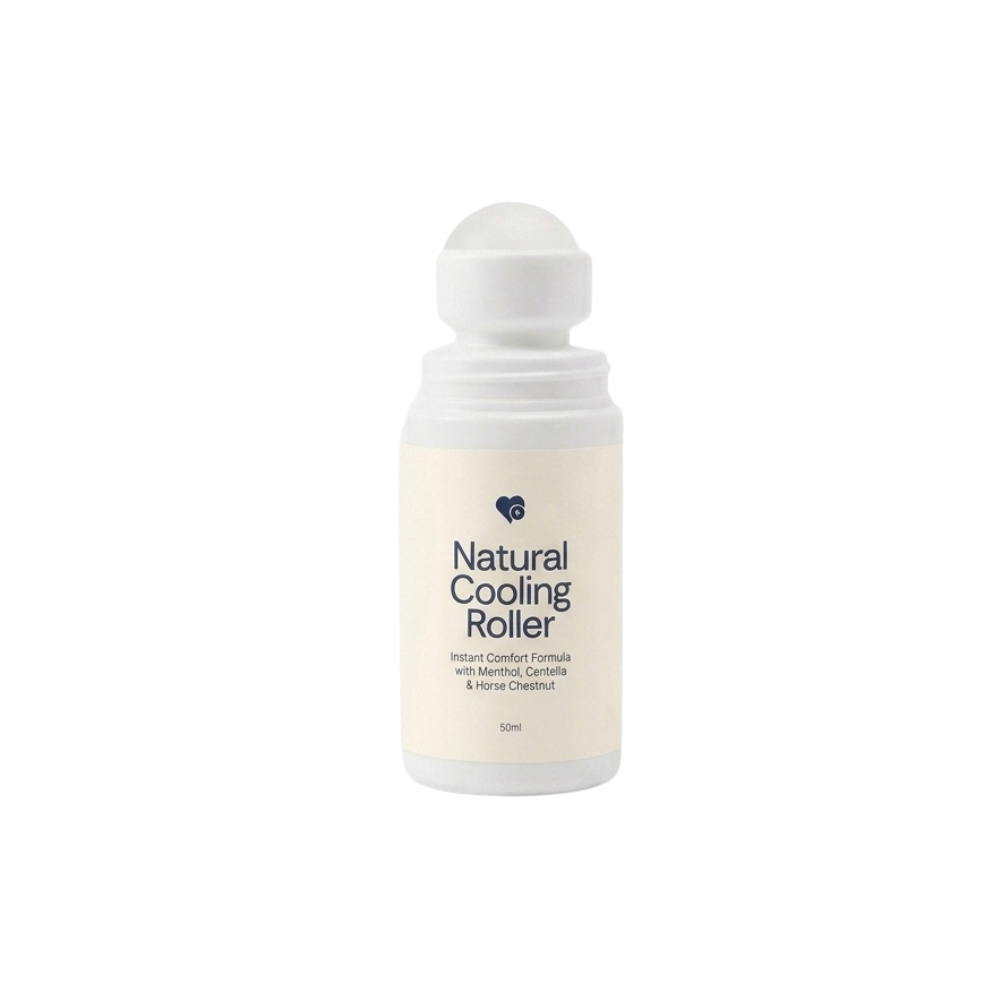
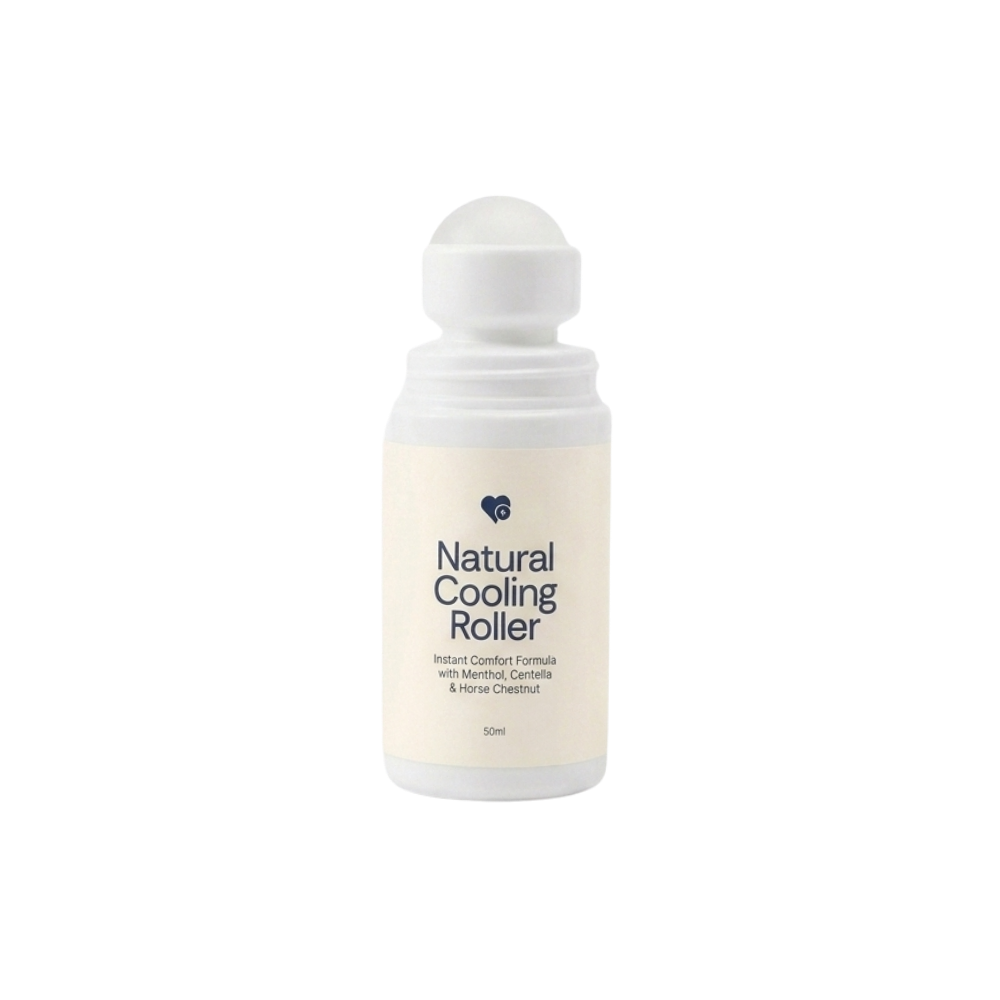
Update hero pack layout

diff --git a/index.html b/index.html
@@ -13732,7 +13732,7 @@ body.dom-pending * {
     text-decoration: line-through !important;
   }
 }
-</style></head><body class=" dom-pending"><div id="nv-page-top"></div><div id="nv-spring-banner" style="margin: 0px; padding: 0px; line-height: 0;"><a href="#nv-best-offer" style="display:block;" id="cc-id-FJq2HurPKM6d" data-id="fkt-link-6c2-c91-b99" title="" target="_self" action="choose" align="center" animate="" speed="" delay="" loop="none" variantvalue="" data-secondsdelay="" data-minutesdelay="" replaceproductid="" billnow="false" offer="" upsell="" quantity="" price=""><img src="https://assets.imagehub.io/8c9e1110-8218-11ef-a556-ffaacc6dbefa/1774953663986_cartoon_version_without_text_desktop_version.webp" alt="Spring Sale &mdash; Up to 67% Off" class="fk-disable-lazy nv-banner-desktop" style="width:100%;height:auto;display:block;cursor:pointer;" id="cc-id-nipYEy9bEBt4" title="" href="" onclick="" target="_self" align="center" width="" height=""><img src="https://assets.imagehub.io/8c9e1110-8218-11ef-a556-ffaacc6dbefa/1774953792222_cartoon_version_without_text_mobile_version.webp" alt="Spring Sale &mdash; Up to 67% Off" class="fk-disable-lazy nv-banner-mobile" style="width:100%;height:auto;display:none;cursor:pointer;" id="cc-id-eY0hH0ra8tv8" title="" href="" onclick="" target="_self" align="center" width="" height=""></a></div><div id="nv-sticky-header"><div id="nv-sticky-inner"><img class="fk-disable-lazy nv-hdr-logo" src="https://assets.imagehub.io/dc45bbf0-81eb-11ef-a2da-133f014b1a7b/1769431998534_Product_name.webp" alt="Nurovita" id="cc-id-SoJrBSZytZyg" title="" href="" onclick="" target="_self" align="center" width="" height=""><a class="nv-hdr-cta" href="#nv-page-top" id="cc-id-q9AuIweQvpqt" data-id="fkt-link-b00-496-ae3" title="CLAIM MY DISCOUNT" target="_self" action="choose" align="center" animate="" speed="" delay="" loop="none" variantvalue="" data-secondsdelay="" data-minutesdelay="" replaceproductid="" billnow="false" offer="" upsell="" quantity="" price=""><span class="rte-styled-text" id="cc-id-onOz8jlom1jY">CLAIM MY DISCOUNT&nbsp;<i class="fas fa-arrow-right" id="cc-id-9XTWbgwoKCq4"></i></span></a></div></div><div id="nv-hero"><div class="nv-hero-grid" id="cc-id-pe71Sw27BPvp"><!-- LEFT: Product Image --><div class="nv-hero-img" id="cc-id-jeRx1TpOBarP"><img class="fk-disable-lazy" src="https://assets.imagehub.io/dc45bbf0-81eb-11ef-a2da-133f014b1a7b/1773316412222_hf_20260225_121430_6d45e93d_48b3_4c3f_a918_484e97ad0858.webp" alt="Natural Cooling Roller" id="cc-id-27wPdSlq6v3J" title="" href="" onclick="" target="_self" align="center" width="" height=""><img src="https://assets.imagehub.io/8c9e1110-8218-11ef-a556-ffaacc6dbefa/1775825101659_Customer_Review.webp" alt="Customer review" class="fk-disable-lazy nv-hero-fb-comment"></div><!-- RIGHT: Content --><div class="nv-hero-content" id="cc-id-WAibwADXKQ5L"><div class="nv-sale-proof"><span class="nv-trust-stars" aria-label="5 stars"><span>&#9733;</span><span>&#9733;</span><span>&#9733;</span><span>&#9733;</span><span>&#9733;</span></span><span>Rated 4.8 / 5.0 | Excellent</span></div><h1 class="nv-sale-title">Natural Cooling Roller</h1><p class="nv-sale-subtitle">Strengthens your vessel walls to ease heaviness, reduce swelling, and calm inflammation at the source.</p><div class="nv-amla-benefits" aria-label="Nurovita key benefits"><div class="nv-amla-benefit"><span class="nv-amla-check" aria-hidden="true">&#10003;</span><span><b>Vessel Walls</b> – Your legs holding fluid back again</span></div><div class="nv-amla-benefit"><span class="nv-amla-check" aria-hidden="true">&#10003;</span><span><b>Collagen</b> – Supports healthy vessel strength naturally</span></div><div class="nv-amla-benefit"><span class="nv-amla-check" aria-hidden="true">&#10003;</span><span><b>Swelling</b> – Supports lighter ankles and calves</span></div><div class="nv-amla-benefit"><span class="nv-amla-check" aria-hidden="true">&#10003;</span><span><b>Circulation</b> – Supports healthy fluid flow in your legs</span></div></div><div class="nv-pack-grid nv-pack-grid-reference" aria-label="Choose your Nurovita pack"><a class="nv-pack-card nv-pack-side" href="#nv-best-offer" data-pack="1" aria-pressed="false"><span class="nv-pack-title">Buy One</span><img class="nv-pack-img fk-disable-lazy" src="1x.png" alt="1 Nurovita Cooling Roller"><span class="nv-pack-save">Save $10.00</span><span class="nv-pack-price">$29.99</span><span class="nv-pack-compare">$39.99</span></a><a class="nv-pack-card nv-pack-featured is-selected" href="#nv-best-offer" data-pack="3" aria-pressed="true"><span class="nv-pack-badge">Most Popular</span><span class="nv-pack-title">Buy 2<br>Get 1 <strong>FREE</strong></span><img class="nv-pack-img fk-disable-lazy" src="3x.png" alt="3 Nurovita Cooling Rollers"><span class="nv-pack-save">Save $20.00</span><span class="nv-pack-price">$59.99</span><span class="nv-pack-compare">$79.99</span></a><a class="nv-pack-card nv-pack-side" href="#nv-best-offer" data-pack="4" aria-pressed="false"><span class="nv-pack-badge nv-pack-soft-badge">Free Shipping</span><span class="nv-pack-title">Buy 3<br>Get 2 <strong>FREE</strong></span><img class="nv-pack-img fk-disable-lazy" src="5x.png" alt="5 Nurovita Cooling Rollers"><span class="nv-pack-save">Save $30.00</span><span class="nv-pack-price">$89.99</span><span class="nv-pack-compare">$119.99</span></a></div><div class="nv-stock-line"><span class="nv-stock-dot" aria-hidden="true"></span><span>In Stock, ready to ship - arrives by June 20th</span></div><a class="nv-hero-cta nv-offer-cta" href="#">Get 67% Off Today <span class="nv-hero-cta-arrow">&#8594;</span></a><p class="nv-subscribe-note">By default, your selected package will continue to be shipped and billed automatically (every 1 or 2 months) unless you choose to skip, pause, cancel, or select the one-time purchase option below.</p><div class="nv-checkout-strip"><span class="nv-checkout-label"><img class="nv-checkout-icon fk-disable-lazy" src="https://alevia.com/cdn/shop/files/shipment-icon.svg?v=[phone redacted]" alt="" aria-hidden="true">Fast Delivery</span><span class="nv-checkout-label"><img class="nv-checkout-icon fk-disable-lazy" src="https://alevia.com/cdn/shop/files/checkout-icon.svg?v=[phone redacted]" alt="" aria-hidden="true">Secure Checkout</span><img class="nv-payment-badges fk-disable-lazy" src="https://alevia.com/cdn/shop/files/Alevia-Payment-Badges_8d92cedb-2466-4afd-a730-3f1cd34ea9a1.webp?v=[phone redacted]" alt="Accepted payment methods"></div><ul class="nv-afterpay-list" aria-label="Auto refill benefits"><li>Refilled every month</li><li>Skip, Pause, or Cancel Anytime</li></ul></div></div></div><div data-text="text" data-secondsdelay="" id="cc-id-mAUWVRDCdeMi"></div><div class="fk-row" id="cc-id-cEIQNJ2wSdor" style="display: none;"></div><div class="fk-row" id="cc-id-nV2O6v668UyQ" data-cc-tablet="false" data-cc-mobilelarge="false" data-cc-mobile="false" style="display: none;"></div><div data-secondsdelay="" id="ir69t" class="fk-row"><div align="center" data-secondsdelay="" id="i4b3x" class="fk-col col"><grammarly-extension data-grammarly-shadow-root="true" class="dnXmp" style="position: absolute; top: 0px; left: 0px; --rem: 16;" id="cc-id-E7aTwqwllfIh"></grammarly-extension><grammarly-extension data-grammarly-shadow-root="true" class="dnXmp" style="position: absolute; top: 0px; left: 0px; --rem: 16;" id="cc-id-ywdCJg4ZgxR8"></grammarly-extension><img class="fk-image-defaults fk-disable-lazy" src="https://assets.imagehub.io/dc45bbf0-81eb-11ef-a2da-133f014b1a7b/1770978453721_withoutclockphone.webp" id="cc-id-VmlKxIgUIi34" title="" href="" onclick="" target="_self" alt="" align="center" width="" height="" style="display: none;" data-cc-desktop="false"><img class="fk-image-defaults fk-disable-lazy" src="https://assets.imagehub.io/dc45bbf0-81eb-11ef-a2da-133f014b1a7b/1770978478262_withoutclockdesktop.webp" id="cc-id-KBUfBXcjY9ut" title="" href="" onclick="" target="_self" align="center" width="" height="" data-cc-tabletlarge="false" data-cc-tablet="false" data-cc-mobilelarge="false" data-cc-mobile="false" style="display: none;"><div data-box="true" data-secondsdelay="" id="i0n4k" style="display: none;"><div data-text="text" data-secondsdelay="" id="i49fr"><span class="font-FFFFFFFF cc-rte-styled rte-styled-text" id="cc-id-pc8HHBpQNpOQ">THE "LIGHTER LEGS OR MONEY BACK" 90-DAY GUARANTEE </span><br class="rte-styled-text" id="cc-id-I5vnZJKGG3yE"></div></div><div data-box="true" data-secondsdelay="" id="i3m14h" style="display: none;"><img id="fkt-image-bbb-aa3-ac3" title="" target="_self" src="https://assets.imagehub.io/dc45bbf0-81eb-11ef-a2da-133f014b1a7b/1765865791586_Product_name.webp" href="" align="center" alt="" width="" height="" onclick="" class="fk-image-defaults fk-disable-lazy disable-fk-lazy" style=""><div data-box="true" data-secondsdelay="" id="ieb4r7b" class="contained"><div data-box="true" data-secondsdelay="" id="i2udwks"><div data-text="text" data-secondsdelay="" id="iutn2x" style="font-size: 40px !important;" spellcheck="false"><div class="rte-styled-text" id="cc-id-jcRmiTefYKXK">
+</style></head><body class=" dom-pending"><div id="nv-page-top"></div><div id="nv-spring-banner" style="margin: 0px; padding: 0px; line-height: 0;"><a href="#nv-best-offer" style="display:block;" id="cc-id-FJq2HurPKM6d" data-id="fkt-link-6c2-c91-b99" title="" target="_self" action="choose" align="center" animate="" speed="" delay="" loop="none" variantvalue="" data-secondsdelay="" data-minutesdelay="" replaceproductid="" billnow="false" offer="" upsell="" quantity="" price=""><img src="https://assets.imagehub.io/8c9e1110-8218-11ef-a556-ffaacc6dbefa/1774953663986_cartoon_version_without_text_desktop_version.webp" alt="Spring Sale &mdash; Up to 67% Off" class="fk-disable-lazy nv-banner-desktop" style="width:100%;height:auto;display:block;cursor:pointer;" id="cc-id-nipYEy9bEBt4" title="" href="" onclick="" target="_self" align="center" width="" height=""><img src="https://assets.imagehub.io/8c9e1110-8218-11ef-a556-ffaacc6dbefa/1774953792222_cartoon_version_without_text_mobile_version.webp" alt="Spring Sale &mdash; Up to 67% Off" class="fk-disable-lazy nv-banner-mobile" style="width:100%;height:auto;display:none;cursor:pointer;" id="cc-id-eY0hH0ra8tv8" title="" href="" onclick="" target="_self" align="center" width="" height=""></a></div><div id="nv-sticky-header"><div id="nv-sticky-inner"><img class="fk-disable-lazy nv-hdr-logo" src="https://assets.imagehub.io/dc45bbf0-81eb-11ef-a2da-133f014b1a7b/1769431998534_Product_name.webp" alt="Nurovita" id="cc-id-SoJrBSZytZyg" title="" href="" onclick="" target="_self" align="center" width="" height=""><a class="nv-hdr-cta" href="#nv-page-top" id="cc-id-q9AuIweQvpqt" data-id="fkt-link-b00-496-ae3" title="CLAIM MY DISCOUNT" target="_self" action="choose" align="center" animate="" speed="" delay="" loop="none" variantvalue="" data-secondsdelay="" data-minutesdelay="" replaceproductid="" billnow="false" offer="" upsell="" quantity="" price=""><span class="rte-styled-text" id="cc-id-onOz8jlom1jY">CLAIM MY DISCOUNT&nbsp;<i class="fas fa-arrow-right" id="cc-id-9XTWbgwoKCq4"></i></span></a></div></div><div id="nv-hero"><div class="nv-hero-grid" id="cc-id-pe71Sw27BPvp"><!-- LEFT: Product Image --><div class="nv-hero-img" id="cc-id-jeRx1TpOBarP"><img class="fk-disable-lazy" src="https://assets.imagehub.io/dc45bbf0-81eb-11ef-a2da-133f014b1a7b/1773316412222_hf_20260225_121430_6d45e93d_48b3_4c3f_a918_484e97ad0858.webp" alt="Natural Cooling Roller" id="cc-id-27wPdSlq6v3J" title="" href="" onclick="" target="_self" align="center" width="" height=""><img src="https://assets.imagehub.io/8c9e1110-8218-11ef-a556-ffaacc6dbefa/1775825101659_Customer_Review.webp" alt="Customer review" class="fk-disable-lazy nv-hero-fb-comment"></div><!-- RIGHT: Content --><div class="nv-hero-content" id="cc-id-WAibwADXKQ5L"><div class="nv-sale-proof"><span class="nv-trust-stars" aria-label="5 stars"><span>&#9733;</span><span>&#9733;</span><span>&#9733;</span><span>&#9733;</span><span>&#9733;</span></span><span>Rated 4.8 / 5.0 | Excellent</span></div><h1 class="nv-sale-title">Natural Cooling Roller</h1><p class="nv-sale-subtitle">Strengthens your vessel walls to ease heaviness, reduce swelling, and calm inflammation at the source.</p><div class="nv-amla-benefits" aria-label="Nurovita key benefits"><div class="nv-amla-benefit"><span class="nv-amla-check" aria-hidden="true">&#10003;</span><span><b>Vessel Walls</b> – Your legs holding fluid back again</span></div><div class="nv-amla-benefit"><span class="nv-amla-check" aria-hidden="true">&#10003;</span><span><b>Collagen</b> – Supports healthy vessel strength naturally</span></div><div class="nv-amla-benefit"><span class="nv-amla-check" aria-hidden="true">&#10003;</span><span><b>Swelling</b> – Supports lighter ankles and calves</span></div><div class="nv-amla-benefit"><span class="nv-amla-check" aria-hidden="true">&#10003;</span><span><b>Circulation</b> – Supports healthy fluid flow in your legs</span></div></div><div class="nv-pack-grid nv-pack-grid-reference" aria-label="Choose your Nurovita pack"><a class="nv-pack-card nv-pack-side" href="#nv-best-offer" data-pack="1" aria-pressed="false"><span class="nv-pack-title">Buy One</span><img class="nv-pack-img fk-disable-lazy" src="1x.png" alt="1 Nurovita Cooling Roller"><span class="nv-pack-save">Save $10.00</span><span class="nv-pack-price">$29.99</span><span class="nv-pack-compare">$39.99</span></a><a class="nv-pack-card nv-pack-featured is-selected" href="#nv-best-offer" data-pack="3" aria-pressed="true"><span class="nv-pack-badge">Most Popular</span><span class="nv-pack-title">Buy 2 Get<br>1 <strong>FREE</strong></span><img class="nv-pack-img fk-disable-lazy" src="3x.png" alt="3 Nurovita Cooling Rollers"><span class="nv-pack-save">Save $20.00</span><span class="nv-pack-price">$59.99</span><span class="nv-pack-compare">$79.99</span></a><a class="nv-pack-card nv-pack-side" href="#nv-best-offer" data-pack="4" aria-pressed="false"><span class="nv-pack-badge nv-pack-soft-badge">Free Shipping</span><span class="nv-pack-title">Buy 3 Get<br>2 <strong>FREE</strong></span><img class="nv-pack-img fk-disable-lazy" src="5x.png" alt="5 Nurovita Cooling Rollers"><span class="nv-pack-save">Save $30.00</span><span class="nv-pack-price">$89.99</span><span class="nv-pack-compare">$119.99</span></a></div><div class="nv-stock-line"><span class="nv-stock-dot" aria-hidden="true"></span><span>In Stock, ready to ship - arrives by June 20th</span></div><a class="nv-hero-cta nv-offer-cta" href="#">Get 67% Off Today <span class="nv-hero-cta-arrow">&#8594;</span></a><p class="nv-subscribe-note">By default, your selected package will continue to be shipped and billed automatically (every 1 or 2 months) unless you choose to skip, pause, cancel, or select the one-time purchase option below.</p><div class="nv-checkout-strip"><span class="nv-checkout-label"><img class="nv-checkout-icon fk-disable-lazy" src="https://alevia.com/cdn/shop/files/shipment-icon.svg?v=[phone redacted]" alt="" aria-hidden="true">Fast Delivery</span><span class="nv-checkout-label"><img class="nv-checkout-icon fk-disable-lazy" src="https://alevia.com/cdn/shop/files/checkout-icon.svg?v=[phone redacted]" alt="" aria-hidden="true">Secure Checkout</span><img class="nv-payment-badges fk-disable-lazy" src="https://alevia.com/cdn/shop/files/Alevia-Payment-Badges_8d92cedb-2466-4afd-a730-3f1cd34ea9a1.webp?v=[phone redacted]" alt="Accepted payment methods"></div><ul class="nv-afterpay-list" aria-label="Auto refill benefits"><li>Refilled every month</li><li>Skip, Pause, or Cancel Anytime</li></ul></div></div></div><div data-text="text" data-secondsdelay="" id="cc-id-mAUWVRDCdeMi"></div><div class="fk-row" id="cc-id-cEIQNJ2wSdor" style="display: none;"></div><div class="fk-row" id="cc-id-nV2O6v668UyQ" data-cc-tablet="false" data-cc-mobilelarge="false" data-cc-mobile="false" style="display: none;"></div><div data-secondsdelay="" id="ir69t" class="fk-row"><div align="center" data-secondsdelay="" id="i4b3x" class="fk-col col"><grammarly-extension data-grammarly-shadow-root="true" class="dnXmp" style="position: absolute; top: 0px; left: 0px; --rem: 16;" id="cc-id-E7aTwqwllfIh"></grammarly-extension><grammarly-extension data-grammarly-shadow-root="true" class="dnXmp" style="position: absolute; top: 0px; left: 0px; --rem: 16;" id="cc-id-ywdCJg4ZgxR8"></grammarly-extension><img class="fk-image-defaults fk-disable-lazy" src="https://assets.imagehub.io/dc45bbf0-81eb-11ef-a2da-133f014b1a7b/1770978453721_withoutclockphone.webp" id="cc-id-VmlKxIgUIi34" title="" href="" onclick="" target="_self" alt="" align="center" width="" height="" style="display: none;" data-cc-desktop="false"><img class="fk-image-defaults fk-disable-lazy" src="https://assets.imagehub.io/dc45bbf0-81eb-11ef-a2da-133f014b1a7b/1770978478262_withoutclockdesktop.webp" id="cc-id-KBUfBXcjY9ut" title="" href="" onclick="" target="_self" align="center" width="" height="" data-cc-tabletlarge="false" data-cc-tablet="false" data-cc-mobilelarge="false" data-cc-mobile="false" style="display: none;"><div data-box="true" data-secondsdelay="" id="i0n4k" style="display: none;"><div data-text="text" data-secondsdelay="" id="i49fr"><span class="font-FFFFFFFF cc-rte-styled rte-styled-text" id="cc-id-pc8HHBpQNpOQ">THE "LIGHTER LEGS OR MONEY BACK" 90-DAY GUARANTEE </span><br class="rte-styled-text" id="cc-id-I5vnZJKGG3yE"></div></div><div data-box="true" data-secondsdelay="" id="i3m14h" style="display: none;"><img id="fkt-image-bbb-aa3-ac3" title="" target="_self" src="https://assets.imagehub.io/dc45bbf0-81eb-11ef-a2da-133f014b1a7b/1765865791586_Product_name.webp" href="" align="center" alt="" width="" height="" onclick="" class="fk-image-defaults fk-disable-lazy disable-fk-lazy" style=""><div data-box="true" data-secondsdelay="" id="ieb4r7b" class="contained"><div data-box="true" data-secondsdelay="" id="i2udwks"><div data-text="text" data-secondsdelay="" id="iutn2x" style="font-size: 40px !important;" spellcheck="false"><div class="rte-styled-text" id="cc-id-jcRmiTefYKXK">
                   Finally Get Your Swollen Legs Back to Normal In Just 30
                   Seconds a Day&mdash;&nbsp;<br id="cc-id-IuEqff1tEHSG"></div></div><div data-text="text" data-secondsdelay="" id="cc-id-JTdwh441DbR6" style="font-size: 16px !important;" spellcheck="false"><b data-text="text" data-secondsdelay="" id="cc-id-FYbblyV7ReSC" class="rte-styled-text" data-layer-name="Text"></b>Join over 10,000 women with swollen legs who discovered the
                 30-Second European Ritual that works directly where the problem
@@ -14355,7 +14355,7 @@ body.dom-pending * {
             .nv-gift-card { height:94px; min-height:94px; }
             .nv-gift-name { font-size:10px; line-height:1.12; margin-top:7px; }
           }
-        </style><div class="nv-hero-grid"><!-- LEFT: Product Image --><div class="nv-hero-img"><img class="fk-disable-lazy" src="https://assets.imagehub.io/dc45bbf0-81eb-11ef-a2da-133f014b1a7b/1773316412222_hf_20260225_121430_6d45e93d_48b3_4c3f_a918_484e97ad0858.webp" alt="Natural Cooling Roller"><img src="https://assets.imagehub.io/8c9e1110-8218-11ef-a556-ffaacc6dbefa/1775825101659_Customer_Review.webp" alt="Customer review" class="fk-disable-lazy nv-hero-fb-comment"></div><!-- RIGHT: Content --><div class="nv-hero-content"><div class="nv-sale-proof"><span class="nv-trust-stars" aria-label="5 stars"><span>&#9733;</span><span>&#9733;</span><span>&#9733;</span><span>&#9733;</span><span>&#9733;</span></span><span>Rated 4.8 / 5.0 | Excellent</span></div><h1 class="nv-sale-title">Natural Cooling Roller</h1><p class="nv-sale-subtitle">Strengthens your vessel walls to ease heaviness, reduce swelling, and calm inflammation at the source.</p><div class="nv-amla-benefits" aria-label="Nurovita key benefits"><div class="nv-amla-benefit"><span class="nv-amla-check" aria-hidden="true">&#10003;</span><span><b>Vessel Walls</b> – Your legs holding fluid back again</span></div><div class="nv-amla-benefit"><span class="nv-amla-check" aria-hidden="true">&#10003;</span><span><b>Collagen</b> – Supports healthy vessel strength naturally</span></div><div class="nv-amla-benefit"><span class="nv-amla-check" aria-hidden="true">&#10003;</span><span><b>Swelling</b> – Supports lighter ankles and calves</span></div><div class="nv-amla-benefit"><span class="nv-amla-check" aria-hidden="true">&#10003;</span><span><b>Circulation</b> – Supports healthy fluid flow in your legs</span></div></div><div class="nv-pack-grid nv-pack-grid-reference" aria-label="Choose your Nurovita pack"><a class="nv-pack-card nv-pack-side" href="#nv-best-offer" data-pack="1" aria-pressed="false"><span class="nv-pack-title">Buy One</span><img class="nv-pack-img fk-disable-lazy" src="1x.png" alt="1 Nurovita Cooling Roller"><span class="nv-pack-save">Save $10.00</span><span class="nv-pack-price">$29.99</span><span class="nv-pack-compare">$39.99</span></a><a class="nv-pack-card nv-pack-featured is-selected" href="#nv-best-offer" data-pack="3" aria-pressed="true"><span class="nv-pack-badge">Most Popular</span><span class="nv-pack-title">Buy 2<br>Get 1 <strong>FREE</strong></span><img class="nv-pack-img fk-disable-lazy" src="3x.png" alt="3 Nurovita Cooling Rollers"><span class="nv-pack-save">Save $20.00</span><span class="nv-pack-price">$59.99</span><span class="nv-pack-compare">$79.99</span></a><a class="nv-pack-card nv-pack-side" href="#nv-best-offer" data-pack="4" aria-pressed="false"><span class="nv-pack-badge nv-pack-soft-badge">Free Shipping</span><span class="nv-pack-title">Buy 3<br>Get 2 <strong>FREE</strong></span><img class="nv-pack-img fk-disable-lazy" src="5x.png" alt="5 Nurovita Cooling Rollers"><span class="nv-pack-save">Save $30.00</span><span class="nv-pack-price">$89.99</span><span class="nv-pack-compare">$119.99</span></a></div><div class="nv-stock-line"><span class="nv-stock-dot" aria-hidden="true"></span><span>In Stock, ready to ship - arrives by June 20th</span></div><a class="nv-hero-cta nv-offer-cta" href="#">Get 67% Off Today <span class="nv-hero-cta-arrow">&#8594;</span></a><p class="nv-subscribe-note">By default, your selected package will continue to be shipped and billed automatically (every 1 or 2 months) unless you choose to skip, pause, cancel, or select the one-time purchase option below.</p><div class="nv-checkout-strip"><span class="nv-checkout-label"><img class="nv-checkout-icon fk-disable-lazy" src="https://alevia.com/cdn/shop/files/shipment-icon.svg?v=1769882221" alt="" aria-hidden="true">Fast Delivery</span><span class="nv-checkout-label"><img class="nv-checkout-icon fk-disable-lazy" src="https://alevia.com/cdn/shop/files/checkout-icon.svg?v=1769882221" alt="" aria-hidden="true">Secure Checkout</span><img class="nv-payment-badges fk-disable-lazy" src="https://alevia.com/cdn/shop/files/Alevia-Payment-Badges_8d92cedb-2466-4afd-a730-3f1cd34ea9a1.webp?v=1764053470" alt="Accepted payment methods"></div><ul class="nv-afterpay-list" aria-label="Auto refill benefits"><li>Refilled every month</li><li>Skip, Pause, or Cancel Anytime</li></ul></div></div>
+        </style><div class="nv-hero-grid"><!-- LEFT: Product Image --><div class="nv-hero-img"><img class="fk-disable-lazy" src="https://assets.imagehub.io/dc45bbf0-81eb-11ef-a2da-133f014b1a7b/1773316412222_hf_20260225_121430_6d45e93d_48b3_4c3f_a918_484e97ad0858.webp" alt="Natural Cooling Roller"><img src="https://assets.imagehub.io/8c9e1110-8218-11ef-a556-ffaacc6dbefa/1775825101659_Customer_Review.webp" alt="Customer review" class="fk-disable-lazy nv-hero-fb-comment"></div><!-- RIGHT: Content --><div class="nv-hero-content"><div class="nv-sale-proof"><span class="nv-trust-stars" aria-label="5 stars"><span>&#9733;</span><span>&#9733;</span><span>&#9733;</span><span>&#9733;</span><span>&#9733;</span></span><span>Rated 4.8 / 5.0 | Excellent</span></div><h1 class="nv-sale-title">Natural Cooling Roller</h1><p class="nv-sale-subtitle">Strengthens your vessel walls to ease heaviness, reduce swelling, and calm inflammation at the source.</p><div class="nv-amla-benefits" aria-label="Nurovita key benefits"><div class="nv-amla-benefit"><span class="nv-amla-check" aria-hidden="true">&#10003;</span><span><b>Vessel Walls</b> – Your legs holding fluid back again</span></div><div class="nv-amla-benefit"><span class="nv-amla-check" aria-hidden="true">&#10003;</span><span><b>Collagen</b> – Supports healthy vessel strength naturally</span></div><div class="nv-amla-benefit"><span class="nv-amla-check" aria-hidden="true">&#10003;</span><span><b>Swelling</b> – Supports lighter ankles and calves</span></div><div class="nv-amla-benefit"><span class="nv-amla-check" aria-hidden="true">&#10003;</span><span><b>Circulation</b> – Supports healthy fluid flow in your legs</span></div></div><div class="nv-pack-grid nv-pack-grid-reference" aria-label="Choose your Nurovita pack"><a class="nv-pack-card nv-pack-side" href="#nv-best-offer" data-pack="1" aria-pressed="false"><span class="nv-pack-title">Buy One</span><img class="nv-pack-img fk-disable-lazy" src="1x.png" alt="1 Nurovita Cooling Roller"><span class="nv-pack-save">Save $10.00</span><span class="nv-pack-price">$29.99</span><span class="nv-pack-compare">$39.99</span></a><a class="nv-pack-card nv-pack-featured is-selected" href="#nv-best-offer" data-pack="3" aria-pressed="true"><span class="nv-pack-badge">Most Popular</span><span class="nv-pack-title">Buy 2 Get<br>1 <strong>FREE</strong></span><img class="nv-pack-img fk-disable-lazy" src="3x.png" alt="3 Nurovita Cooling Rollers"><span class="nv-pack-save">Save $20.00</span><span class="nv-pack-price">$59.99</span><span class="nv-pack-compare">$79.99</span></a><a class="nv-pack-card nv-pack-side" href="#nv-best-offer" data-pack="4" aria-pressed="false"><span class="nv-pack-badge nv-pack-soft-badge">Free Shipping</span><span class="nv-pack-title">Buy 3 Get<br>2 <strong>FREE</strong></span><img class="nv-pack-img fk-disable-lazy" src="5x.png" alt="5 Nurovita Cooling Rollers"><span class="nv-pack-save">Save $30.00</span><span class="nv-pack-price">$89.99</span><span class="nv-pack-compare">$119.99</span></a></div><div class="nv-stock-line"><span class="nv-stock-dot" aria-hidden="true"></span><span>In Stock, ready to ship - arrives by June 20th</span></div><a class="nv-hero-cta nv-offer-cta" href="#">Get 67% Off Today <span class="nv-hero-cta-arrow">&#8594;</span></a><p class="nv-subscribe-note">By default, your selected package will continue to be shipped and billed automatically (every 1 or 2 months) unless you choose to skip, pause, cancel, or select the one-time purchase option below.</p><div class="nv-checkout-strip"><span class="nv-checkout-label"><img class="nv-checkout-icon fk-disable-lazy" src="https://alevia.com/cdn/shop/files/shipment-icon.svg?v=1769882221" alt="" aria-hidden="true">Fast Delivery</span><span class="nv-checkout-label"><img class="nv-checkout-icon fk-disable-lazy" src="https://alevia.com/cdn/shop/files/checkout-icon.svg?v=1769882221" alt="" aria-hidden="true">Secure Checkout</span><img class="nv-payment-badges fk-disable-lazy" src="https://alevia.com/cdn/shop/files/Alevia-Payment-Badges_8d92cedb-2466-4afd-a730-3f1cd34ea9a1.webp?v=1764053470" alt="Accepted payment methods"></div><ul class="nv-afterpay-list" aria-label="Auto refill benefits"><li>Refilled every month</li><li>Skip, Pause, or Cancel Anytime</li></ul></div></div>
         `;
 
         // Insert after the sticky header (banner > sticky header > hero)
@@ -15772,6 +15772,211 @@ html body #nv-hero .nv-stock-line {
     margin-left: auto !important;
     margin-right: auto !important;
     box-sizing: border-box !important;
+  }
+}
+</style><style id="nv-payment-badges-size-final-css">
+html body #nv-hero .nv-payment-badges {
+  width: 180px !important;
+  max-width: 48% !important;
+  height: auto !important;
+  display: block !important;
+  margin: 6px auto 0 !important;
+  object-fit: contain !important;
+}
+
+@media (max-width: 768px) {
+  html body #nv-hero .nv-payment-badges {
+    width: 155px !important;
+    max-width: 52% !important;
+    margin-top: 6px !important;
+  }
+}
+</style><script id="nv-payment-badges-inline-size-final">
+(function () {
+  function sizePaymentBadges() {
+    var isMobile = window.matchMedia && window.matchMedia('(max-width: 768px)').matches;
+    document.querySelectorAll('#nv-hero .nv-payment-badges').forEach(function (img) {
+      img.style.setProperty('width', isMobile ? '155px' : '180px', 'important');
+      img.style.setProperty('max-width', isMobile ? '52%' : '48%', 'important');
+      img.style.setProperty('height', 'auto', 'important');
+      img.style.setProperty('display', 'block', 'important');
+      img.style.setProperty('margin', '6px auto 0', 'important');
+      img.style.setProperty('object-fit', 'contain', 'important');
+    });
+  }
+
+  sizePaymentBadges();
+  window.addEventListener('load', sizePaymentBadges);
+  window.addEventListener('resize', sizePaymentBadges);
+})();
+</script><style id="nv-pack-equal-height-desktop-final-css">
+@media (min-width: 769px) {
+  html body #nv-hero .nv-pack-grid-reference {
+    align-items: stretch !important;
+  }
+
+  html body #nv-hero .nv-pack-grid-reference .nv-pack-card,
+  html body #nv-hero .nv-pack-grid-reference .nv-pack-card.nv-pack-featured,
+  html body #nv-hero .nv-pack-grid-reference .nv-pack-card.is-selected,
+  html body #nv-hero .nv-pack-grid-reference .nv-pack-card.nv-pack-featured.is-selected {
+    position: relative !important;
+    display: block !important;
+    min-height: 274px !important;
+    height: 274px !important;
+    padding: 0 !important;
+    box-sizing: border-box !important;
+    align-self: stretch !important;
+    justify-content: flex-start !important;
+    overflow: hidden !important;
+  }
+
+  html body #nv-hero .nv-pack-grid-reference .nv-pack-card:not(.nv-pack-featured) {
+    margin-top: 0 !important;
+  }
+
+  html body #nv-hero .nv-pack-grid-reference .nv-pack-card[data-pack="1"] {
+    margin-top: 31px !important;
+    min-height: 243px !important;
+    height: 243px !important;
+  }
+
+  html body #nv-hero .nv-pack-grid-reference .nv-pack-card.is-selected,
+  html body #nv-hero .nv-pack-grid-reference .nv-pack-card.nv-pack-featured.is-selected {
+    border: 2px solid #052f55 !important;
+    box-shadow: inset 0 0 0 0 #052f55 !important;
+    outline: 0 !important;
+  }
+
+  html body #nv-hero .nv-pack-grid-reference .nv-pack-card:not(.nv-pack-featured) .nv-pack-title {
+    margin-top: 0 !important;
+  }
+
+  html body #nv-hero .nv-pack-grid-reference .nv-pack-badge {
+    position: absolute !important;
+    top: 0 !important;
+    left: 0 !important;
+    right: 0 !important;
+    transform: none !important;
+    width: auto !important;
+    min-height: 31px !important;
+    display: flex !important;
+    align-items: center !important;
+    justify-content: center !important;
+    border-radius: 0 !important;
+    margin: 0 !important;
+    padding: 0 8px !important;
+    box-sizing: border-box !important;
+  }
+
+  html body #nv-hero .nv-pack-grid-reference .nv-pack-title,
+  html body #nv-hero .nv-pack-grid-reference .nv-pack-card .nv-pack-badge + .nv-pack-title,
+  html body #nv-hero .nv-pack-grid-reference .nv-pack-featured .nv-pack-badge + .nv-pack-title {
+    position: absolute !important;
+    top: 48px !important;
+    left: 8px !important;
+    right: 8px !important;
+    min-height: 42px !important;
+    margin: 0 !important;
+    display: block !important;
+    line-height: 1.12 !important;
+    text-align: center !important;
+  }
+
+  html body #nv-hero .nv-pack-grid-reference .nv-pack-card[data-pack="1"] .nv-pack-title {
+    top: 17px !important;
+  }
+
+  html body #nv-hero .nv-pack-grid-reference .nv-pack-title strong {
+    display: inline !important;
+    white-space: nowrap !important;
+    color: #0b8ed0 !important;
+  }
+
+  html body #nv-hero .nv-pack-grid-reference .nv-pack-img,
+  html body #nv-hero .nv-pack-grid-reference .nv-pack-featured .nv-pack-img {
+    position: absolute !important;
+    top: 64px !important;
+    left: 50% !important;
+    width: 240px !important;
+    max-width: 118% !important;
+    height: 144px !important;
+    object-fit: contain !important;
+    margin: 0 !important;
+    transform: translateX(-50%) !important;
+  }
+
+  html body #nv-hero .nv-pack-grid-reference .nv-pack-card[data-pack="1"] .nv-pack-img {
+    top: 33px !important;
+  }
+
+  html body #nv-hero .nv-pack-grid-reference .nv-pack-save {
+    position: absolute !important;
+    top: 193px !important;
+    left: 50% !important;
+    transform: translateX(-50%) !important;
+    margin: 0 !important;
+  }
+
+  html body #nv-hero .nv-pack-grid-reference .nv-pack-card[data-pack="1"] .nv-pack-save {
+    top: 162px !important;
+  }
+
+  html body #nv-hero .nv-pack-grid-reference .nv-pack-price {
+    position: absolute !important;
+    top: 224px !important;
+    left: 8px !important;
+    right: 8px !important;
+    margin: 0 !important;
+    text-align: center !important;
+  }
+
+  html body #nv-hero .nv-pack-grid-reference .nv-pack-card[data-pack="1"] .nv-pack-price {
+    top: 193px !important;
+  }
+
+  html body #nv-hero .nv-pack-grid-reference .nv-pack-compare {
+    position: absolute !important;
+    top: 247px !important;
+    left: 8px !important;
+    right: 8px !important;
+    margin: 0 !important;
+    text-align: center !important;
+  }
+
+  html body #nv-hero .nv-pack-grid-reference .nv-pack-card[data-pack="1"] .nv-pack-compare {
+    top: 216px !important;
+  }
+}
+</style><style id="nv-mobile-buy-one-no-header-final-css">
+@media (max-width: 768px) {
+  html body #nv-hero .nv-pack-grid-reference .nv-pack-card[data-pack="1"] {
+    margin-top: 22px !important;
+    min-height: 210px !important;
+    height: 210px !important;
+  }
+
+  html body #nv-hero .nv-pack-grid-reference .nv-pack-card[data-pack="1"]:before {
+    height: 128px !important;
+  }
+
+  html body #nv-hero .nv-pack-grid-reference .nv-pack-card[data-pack="1"] .nv-pack-title {
+    top: 16px !important;
+  }
+
+  html body #nv-hero .nv-pack-grid-reference .nv-pack-card[data-pack="1"] .nv-pack-img {
+    top: 24px !important;
+  }
+
+  html body #nv-hero .nv-pack-grid-reference .nv-pack-card[data-pack="1"] .nv-pack-save {
+    top: 136px !important;
+  }
+
+  html body #nv-hero .nv-pack-grid-reference .nv-pack-card[data-pack="1"] .nv-pack-price {
+    top: 166px !important;
+  }
+
+  html body #nv-hero .nv-pack-grid-reference .nv-pack-card[data-pack="1"] .nv-pack-compare {
+    top: 188px !important;
   }
 }
 </style></body></html>